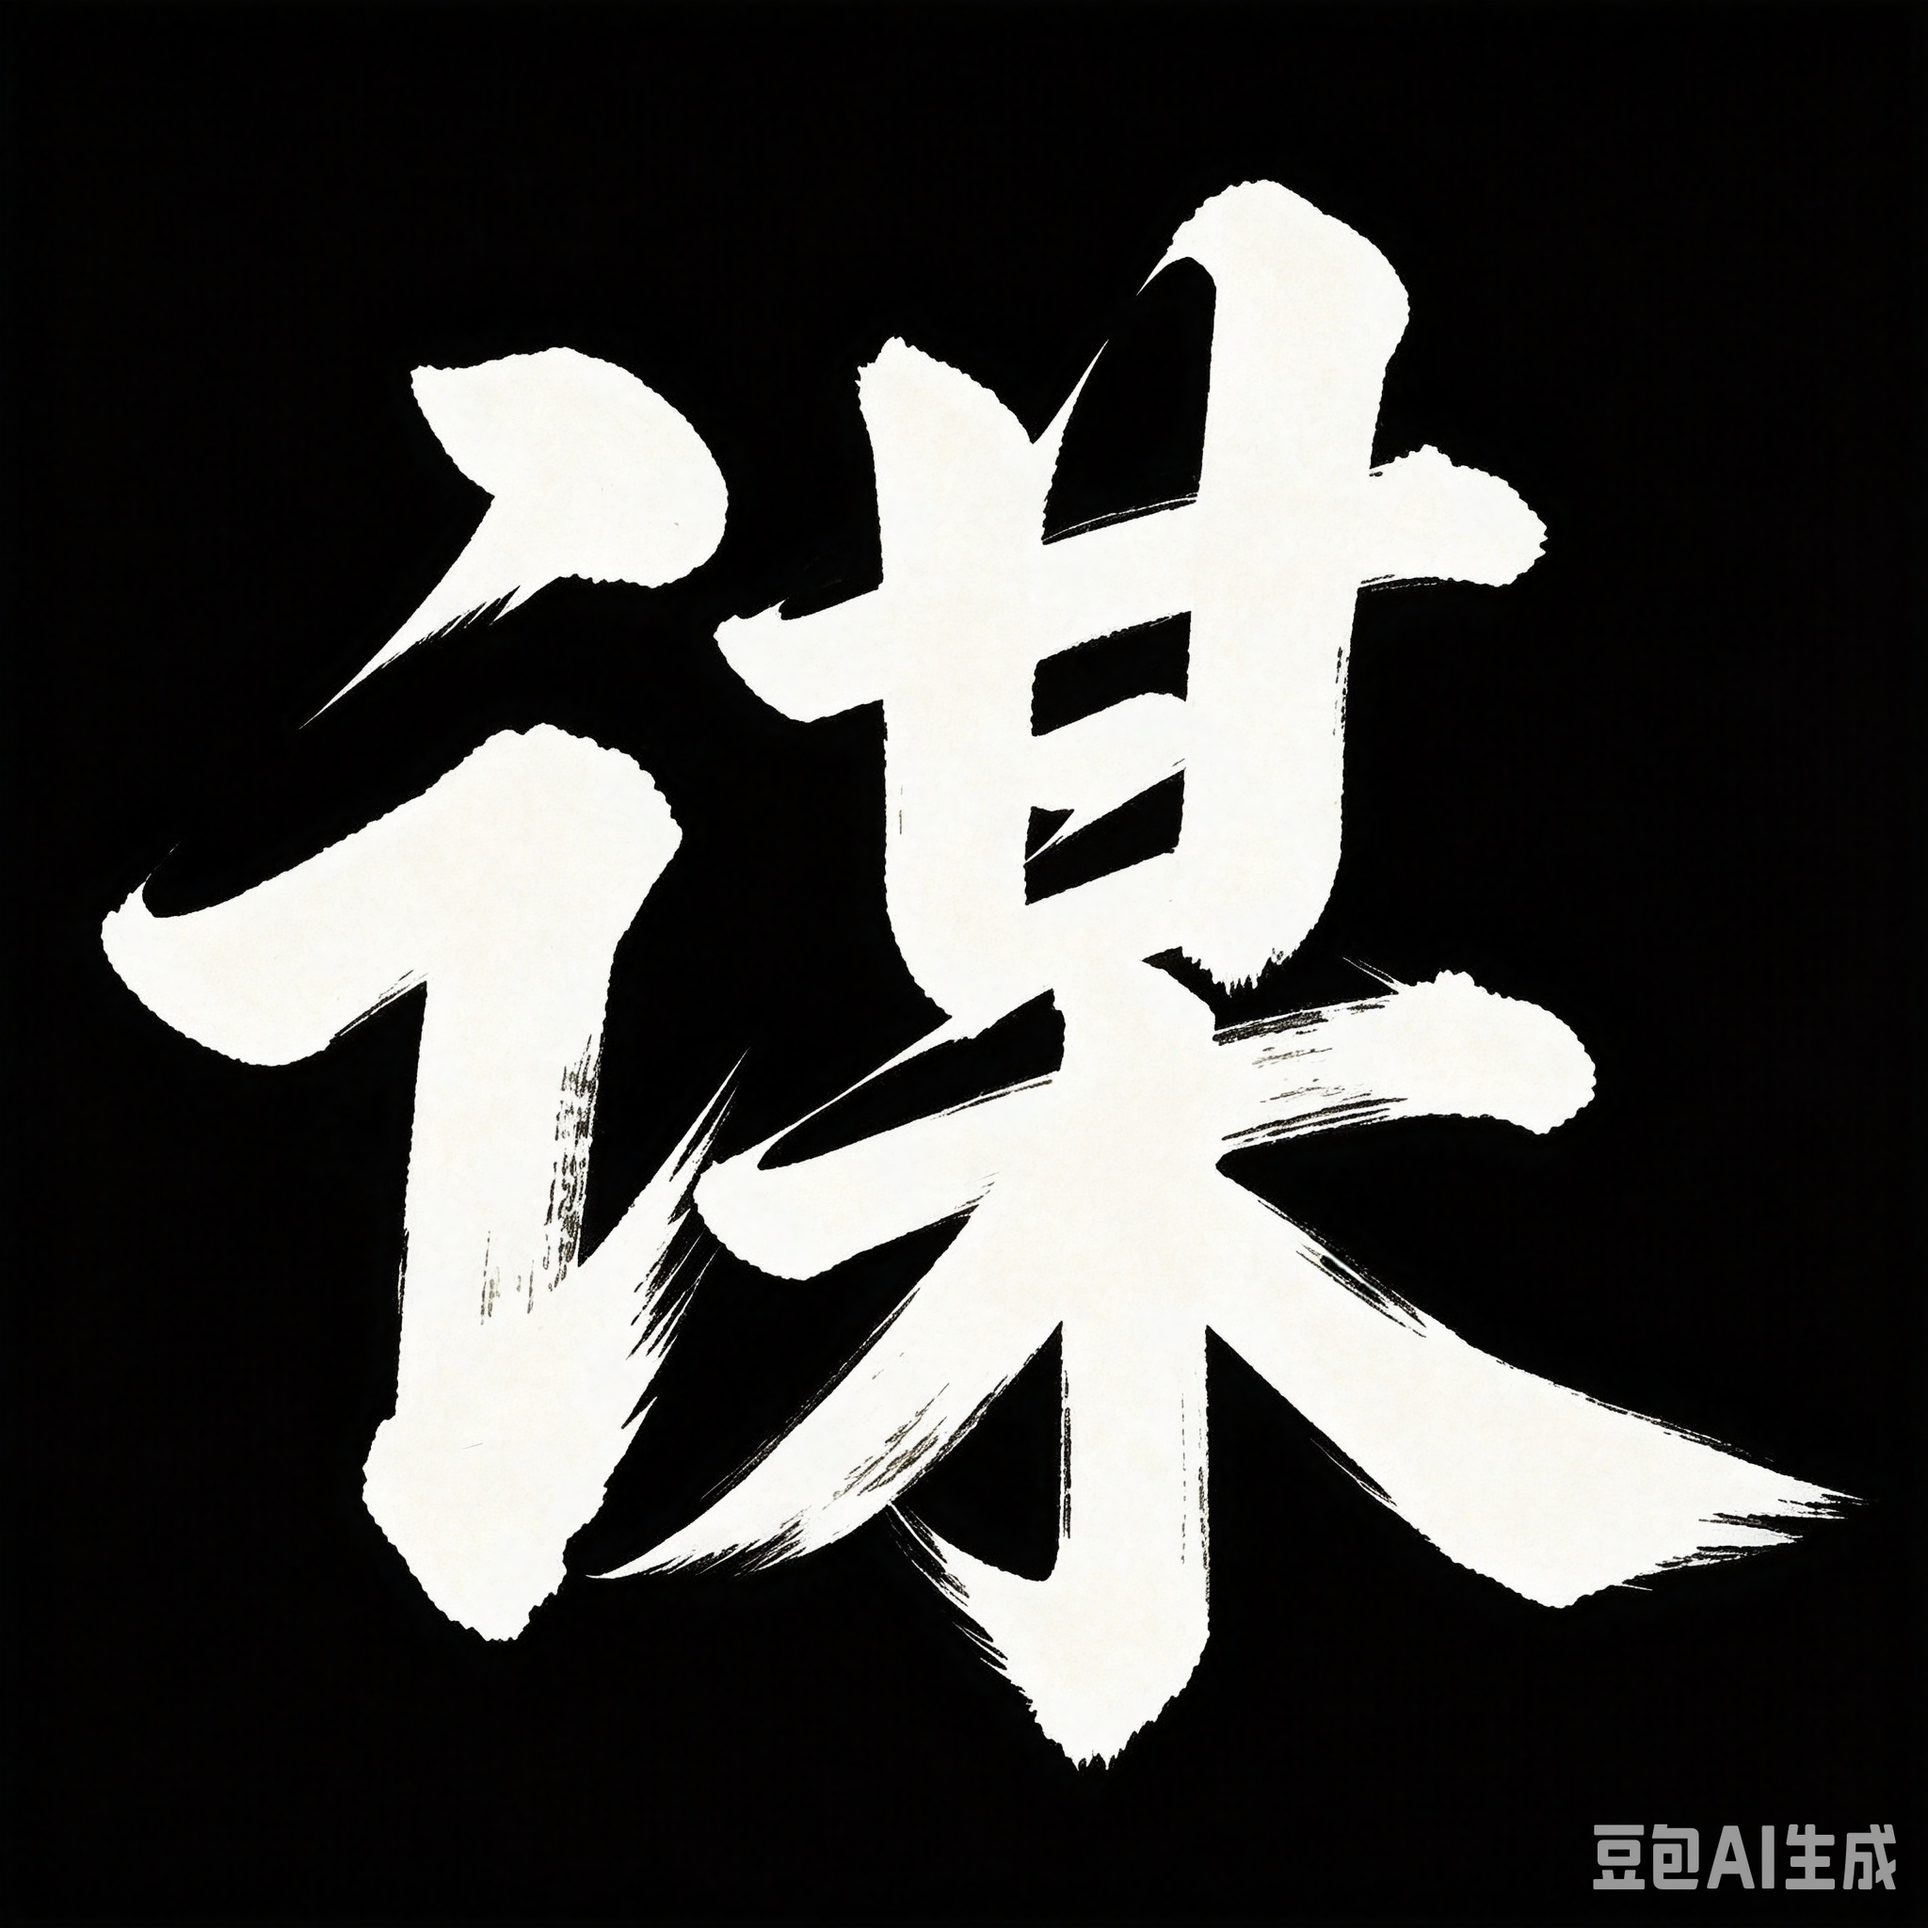
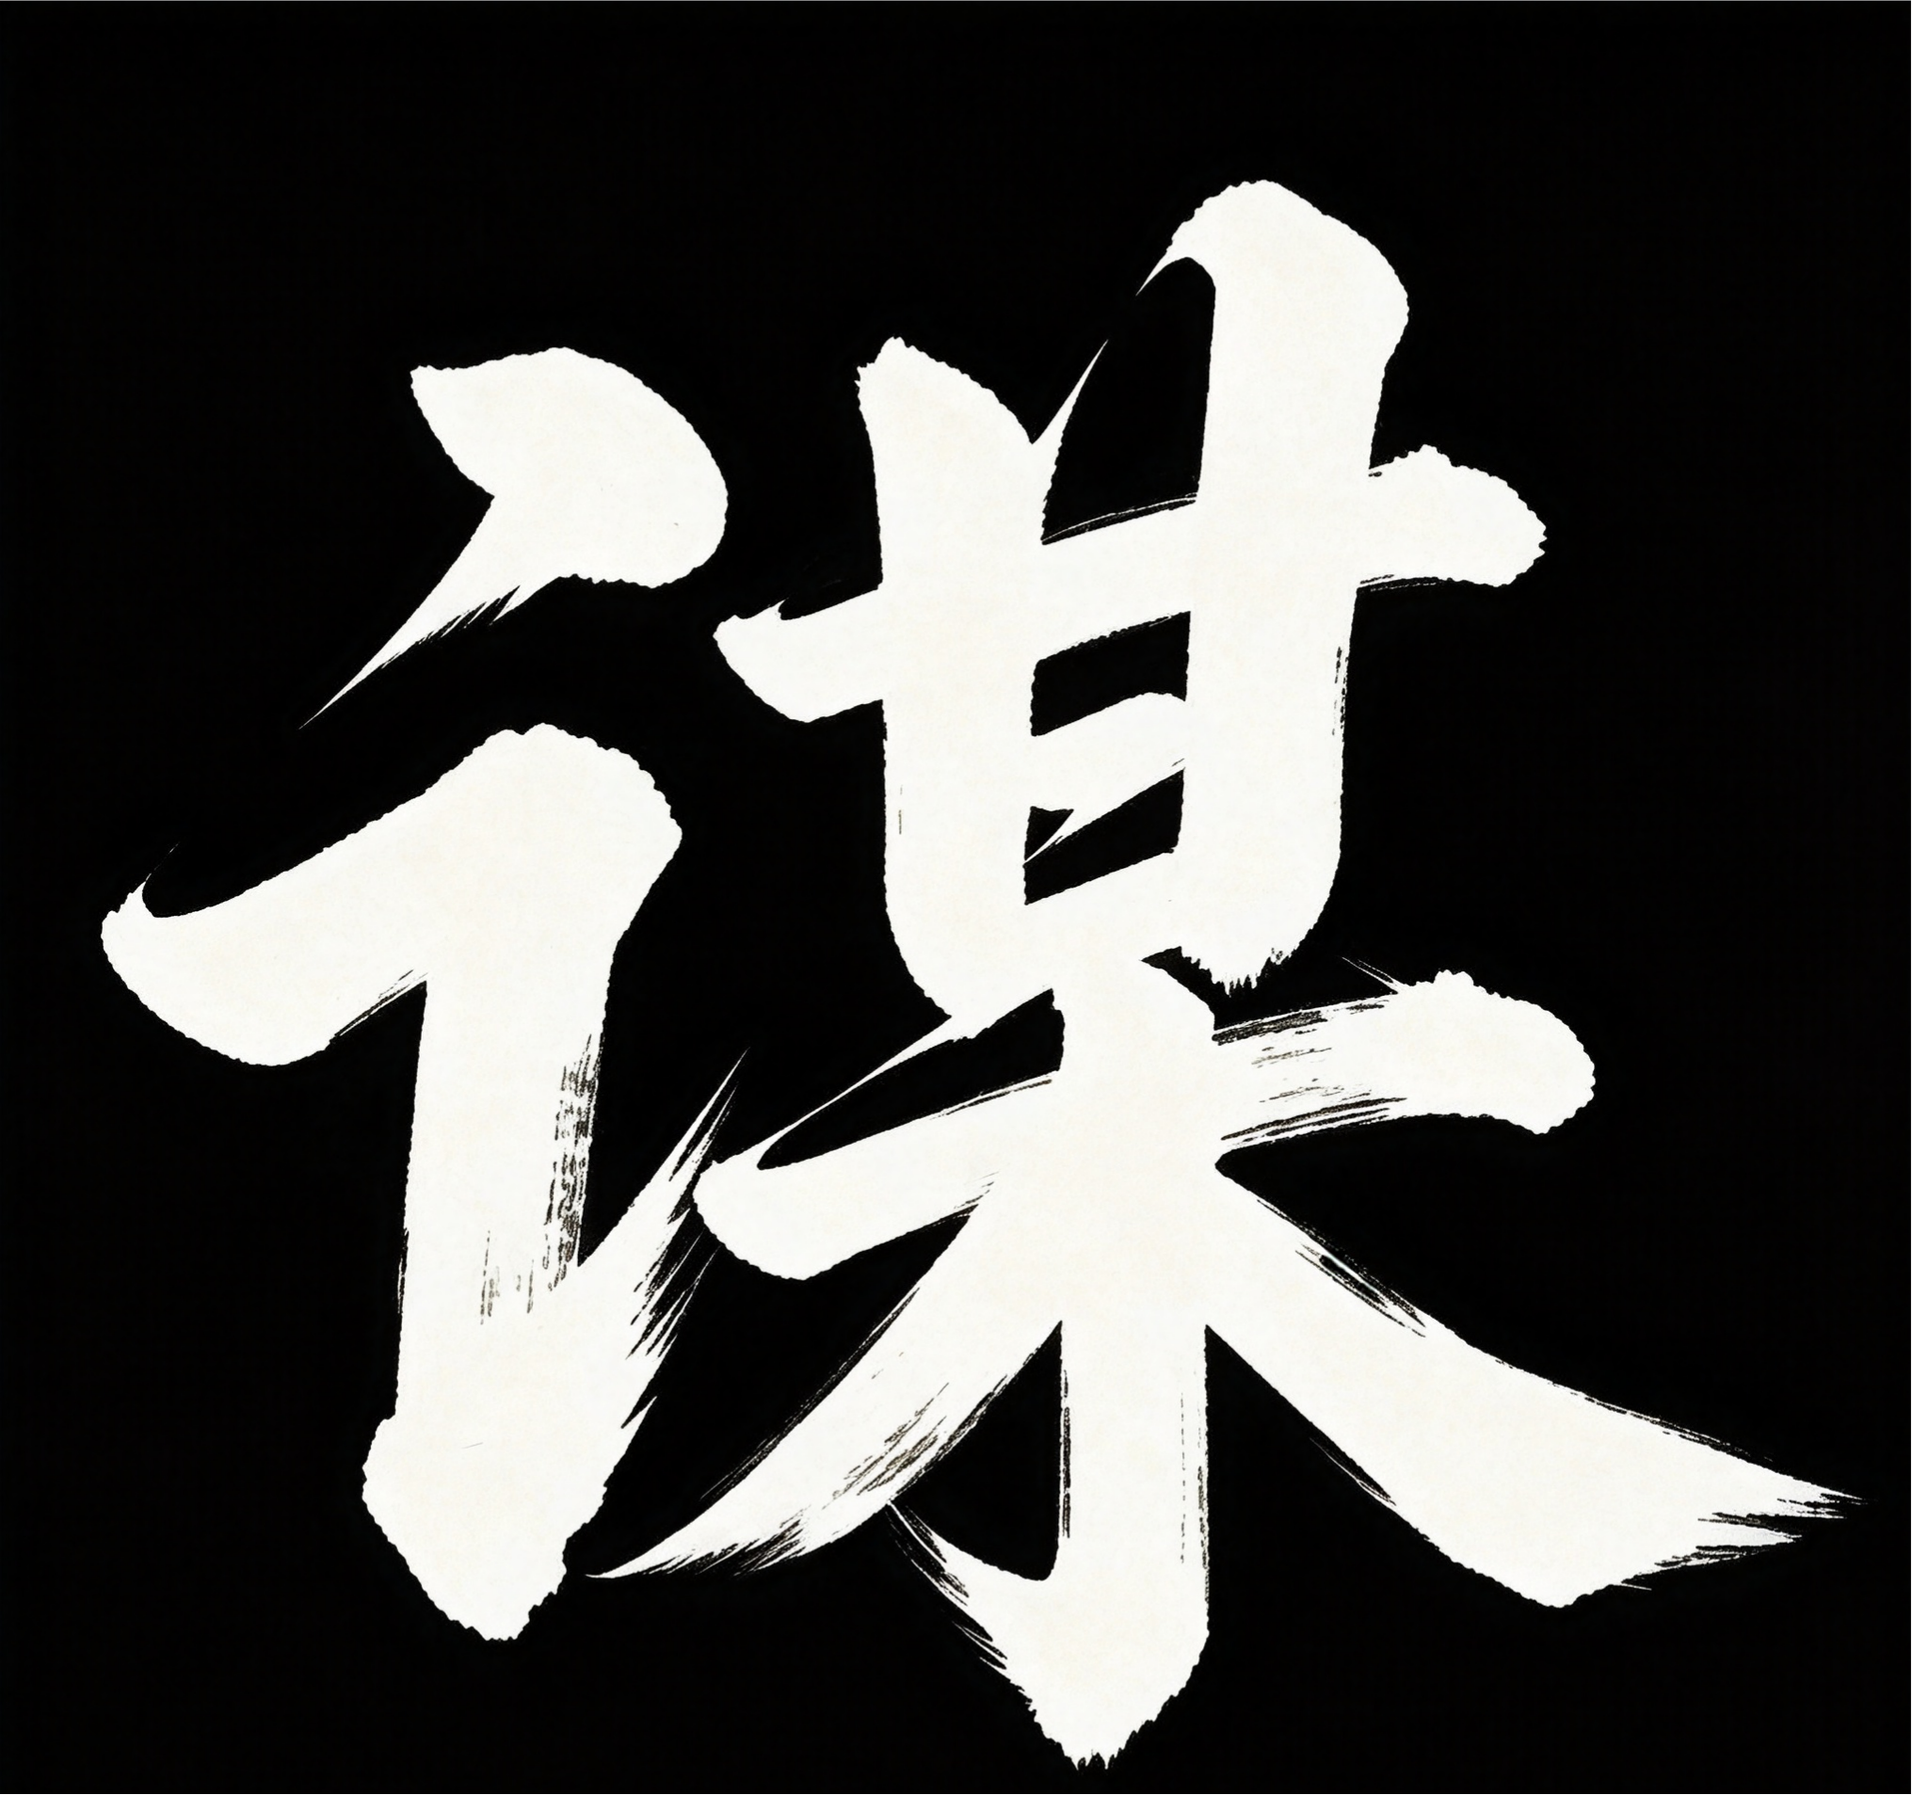
feat: enlarge brand mark to 52px and return stamp to 60px

diff --git a/styles.css b/styles.css
@@ -87,8 +87,8 @@ body {
 }
 
 .nav-brand-img {
-    width: 44px;
-    height: 44px;
+    width: 52px;
+    height: 52px;
     object-fit: contain;
     mix-blend-mode: screen;
     transition: opacity 0.3s;
@@ -1023,10 +1023,10 @@ footer {
 /* ===== 印章（归 · 返回顶部） ===== */
 .seal-stamp {
     position: fixed;
-    bottom: 28px;
-    right: 28px;
-    width: 56px;
-    height: 56px;
+    bottom: 24px;
+    right: 24px;
+    width: 64px;
+    height: 64px;
     display: flex;
     align-items: center;
     justify-content: center;
@@ -1041,8 +1041,8 @@ footer {
 }
 
 .seal-stamp-img {
-    width: 52px;
-    height: 52px;
+    width: 60px;
+    height: 60px;
     object-fit: contain;
     mix-blend-mode: screen;
 }
